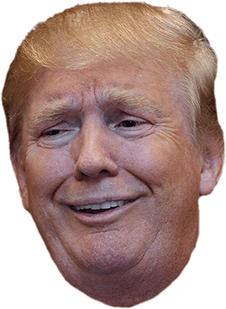
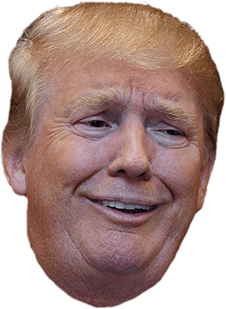
second commit

diff --git a/src/App.css b/src/App.css
@@ -1,27 +1,108 @@
 .App {
   height: 100vh;
   width: 100vw;
+  max-width: 1024px;
+  position: relative;
   display: flex;
-  flex-direction: column;
-  justify-content: space-between;
-  align-items: center;
+  justify-content: center;
+
+  box-sizing: border-box;
+  overflow: hidden;
 }
 h1 {
   text-align: center;
-  font-size: max(2vw, 25px);
+  font-size: max(1vw, 20px);
+  position: absolute;
+  width: 75%;
+  text-align: center;
+  top: 4vh;
+  border-radius: 25px;
+  font-family: "Roboto", sans-serif;
+}
+
+.quoteContainer {
+  position: absolute;
+  top: 11vh;
+  width: 90vw;
+  max-width: 800px;
+  text-align: center;
+  background: transparent;
+  border: 5px solid white;
+  -webkit-border-radius: 30px;
+  -moz-border-radius: 30px;
+  border-radius: 30px;
+  margin: 0 2vw;
 }
 
 .quoteContainer p {
-  text-align: justify;
+  height: 100%;
+  padding: 5vh;
+  font-family: arial;
+  font-style: italic;
+  font-size: max(1vw, 18px);
+  transition: all 400ms ease-out;
 }
-.imgArea {
-  width: 100%;
-  height: 35vh;
-  position: relative;
-}
-.imgArea img {
-  width: 50vw;
+#arrow-down {
+  width: 0;
+  height: 0;
+  border-left: 10px solid transparent;
+  border-right: 10px solid transparent;
+  border-top: 20px solid white;
   position: absolute;
+  left: 30%;
+  margin-top: 5px;
+  transition: left 400ms ease;
+}
+#arrow-down.active {
+  left: 65%;
 }
 #pic {
+  left: 5vw;
+  width: 50vw;
+  max-height: 50vh;
+  max-width: 350px;
+  position: absolute;
+  bottom: 20vh;
+  filter: drop-shadow(0 3px 1px rgba(0, 0, 0, 0.6));
+  transition: left 400ms ease;
+}
+#pic.active {
+  left: min(45vw, 525px);
+
+  transform: scaleX(-1);
+}
+.buttonContainer {
+  position: absolute;
+  bottom: 10vh;
+  width: 100%;
+  text-align: center;
+}
+.randomQuote:active {
+  transform: scale(0.98);
+}
+
+.randomQuote {
+  padding: 12px;
+  border-radius: 5px;
+  border: none;
+  filter: drop-shadow(0 3px 2px rgba(0, 0, 0, 0.6));
+  outline: none;
+  background: lightpink;
+  font-size: 18px;
+  color: rgb(20, 20, 20);
+  transition: transform 40ms;
+}
+
+@media only screen and (max-width: 360px) {
+  .quoteContainer p {
+    font-size: max(1vw, 12px);
+  }
+}
+@media only screen and (max-width: 1024px) {
+  #pic {
+    left: 10vw;
+  }
+  #pic.active {
+    left: 40vw;
+  }
 }

diff --git a/public/index.html b/public/index.html
@@ -9,6 +9,10 @@
       name="description"
       content="Web site created using create-react-app"
     />
+    <link
+      href="https://fonts.googleapis.com/css2?family=Roboto:wght@700&display=swap"
+      rel="stylesheet"
+    />
     <link rel="apple-touch-icon" href="%PUBLIC_URL%/logo192.png" />
     <!--
       manifest.json provides metadata used when your web app is installed on a
@@ -24,7 +28,7 @@
       work correctly both with client-side routing and a non-root public URL.
       Learn how to configure a non-root public URL by running `npm run build`.
     -->
-    <title>React App</title>
+    <title>Trump Quote Generator</title>
   </head>
   <body>
     <noscript>You need to enable JavaScript to run this app.</noscript>

diff --git a/src/App.js b/src/App.js
@@ -27,9 +27,14 @@ function App() {
       .then(res => {
         setTrumpPic(trumpHeads[randomNum]);
         setQuote(res.data);
+        picMover(trumpPic);
       })
   };
+const picMover = () => {
+  document.getElementById('pic').classList.toggle('active');
+  document.getElementById('arrow-down').classList.toggle('active');
 
+}
 
 
   return (
@@ -40,12 +45,16 @@ function App() {
 
 <div className='quoteContainer'>
 <p>{quote && quote.message}</p>
+<div id="arrow-down"></div>
 </div>
 
-<div className='imgArea'>
+
  <img id='pic' src={trumpPic} alt='Donald Trump'/> 
-</div>
+
+<div className='buttonContainer'>
 <button className='randomQuote' onClick={() => newQuote()}>Random Quote</button>
+</div>
+
     </div>
   );
 }

diff --git a/src/index.css b/src/index.css
@@ -15,7 +15,18 @@ body {
   width: 100vw;
   height: 100vh;
 }
-
+body {
+  position: absolute;
+  width: 100%;
+  display: flex;
+  justify-content: center;
+  background: rgb(250, 176, 224);
+  background: linear-gradient(
+    180deg,
+    rgba(250, 176, 224, 1) 0%,
+    rgba(255, 255, 255, 1) 100%
+  );
+}
 div,
 p,
 a,
